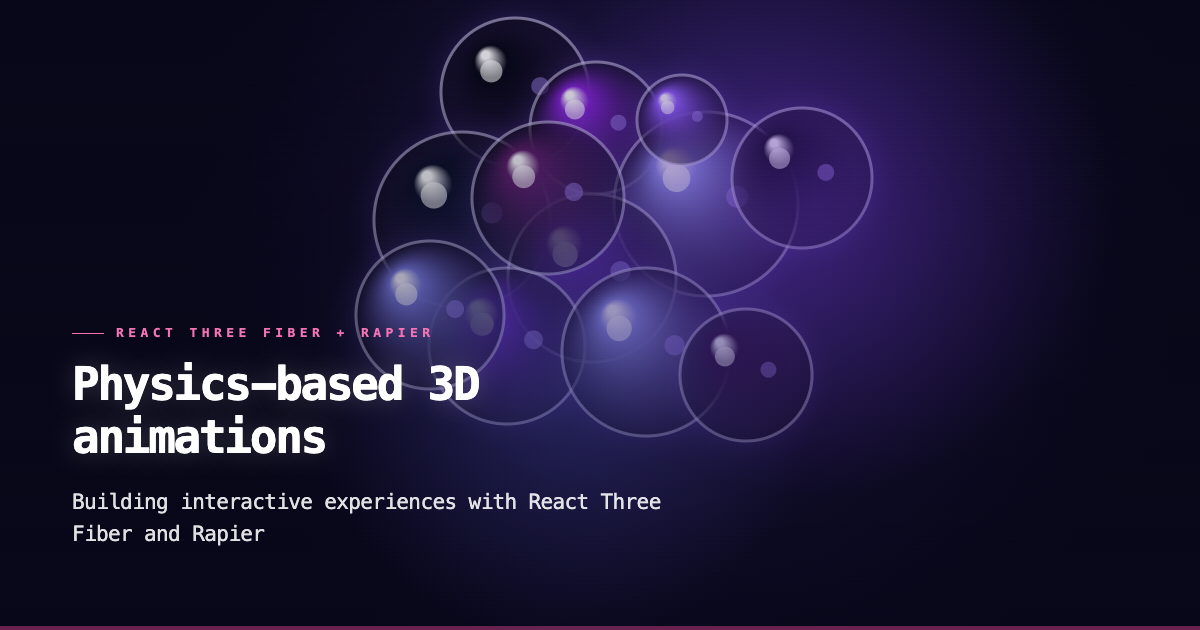
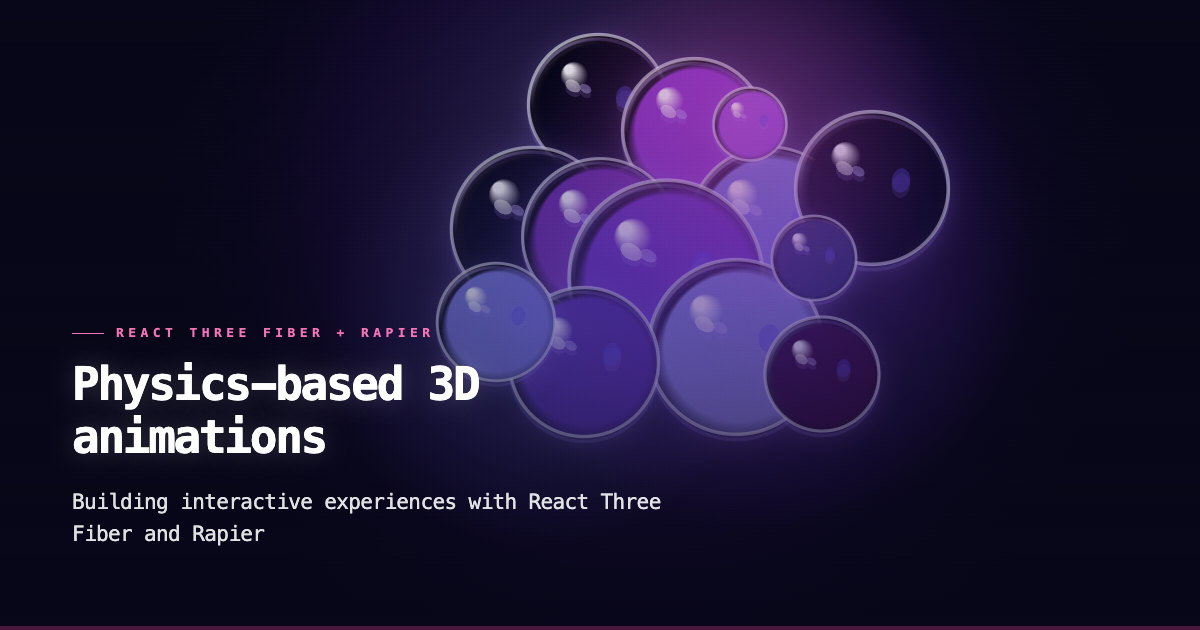
feat(examples): improve physics og demo

diff --git a/src/worker-configuration.d.ts b/src/worker-configuration.d.ts
@@ -1,21 +1,21 @@
 /* eslint-disable */
-// Generated by Wrangler by running `wrangler types --strict-vars=false src/worker-configuration.d.ts` (hash: d7e084548c703daa9e23286cf048b968)
+// Generated by Wrangler by running `wrangler types --env-file=.dev.vars.example --strict-vars=false src/worker-configuration.d.ts` (hash: b4319eba50305e06c2b2994766850a9a)
 // Runtime types generated with workerd@1.20260708.1 2026-07-09 global_fetch_strictly_public,nodejs_compat
 interface __BaseEnv_Env {
 	OG_CACHE: R2Bucket;
 	BROWSER: BrowserRun;
+	ALLOWED_HOSTS: string;
+	ALLOW_SUBDOMAINS: string;
 	ALLOWED_FORMATS: string;
 	BROWSER_POOL_MAX: string;
 	CACHE_TTL_SECONDS: string;
+	ENABLE_PREFLIGHT: string;
+	ENVIRONMENT: string;
 	MAX_HTML_BYTES: string;
 	MAX_NEW_URLS_PER_WINDOW: string;
 	MAX_RENDERS_PER_WINDOW: string;
 	PER_URL_COOLDOWN_SECONDS: string;
 	USAGE_WINDOW_SECONDS: string;
-	ALLOWED_HOSTS: string;
-	ALLOW_SUBDOMAINS: string;
-	ENABLE_PREFLIGHT: string;
-	ENVIRONMENT: string;
 	RENDER_GATE: DurableObjectNamespace<import("./worker/index").RenderGate>;
 }
 declare namespace Cloudflare {
@@ -30,7 +30,7 @@ type StringifyValues<EnvType extends Record<string, unknown>> = {
 	[Binding in keyof EnvType]: EnvType[Binding] extends string ? EnvType[Binding] : string;
 };
 declare namespace NodeJS {
-	interface ProcessEnv extends StringifyValues<Pick<Cloudflare.Env, "ALLOWED_FORMATS" | "BROWSER_POOL_MAX" | "CACHE_TTL_SECONDS" | "MAX_HTML_BYTES" | "MAX_NEW_URLS_PER_WINDOW" | "MAX_RENDERS_PER_WINDOW" | "PER_URL_COOLDOWN_SECONDS" | "USAGE_WINDOW_SECONDS" | "ALLOWED_HOSTS" | "ALLOW_SUBDOMAINS" | "ENABLE_PREFLIGHT" | "ENVIRONMENT">> {}
+	interface ProcessEnv extends StringifyValues<Pick<Cloudflare.Env, "ALLOWED_HOSTS" | "ALLOW_SUBDOMAINS" | "ALLOWED_FORMATS" | "BROWSER_POOL_MAX" | "CACHE_TTL_SECONDS" | "ENABLE_PREFLIGHT" | "ENVIRONMENT" | "MAX_HTML_BYTES" | "MAX_NEW_URLS_PER_WINDOW" | "MAX_RENDERS_PER_WINDOW" | "PER_URL_COOLDOWN_SECONDS" | "USAGE_WINDOW_SECONDS">> {}
 }
 
 // Begin runtime types

diff --git a/README.md b/README.md
@@ -60,9 +60,6 @@ Advanced demos:
   <img src="examples/images/physics-spheres.png" alt="Physics spheres OG image example" width="390">
 </p>
 
-For heavier scenes, keep the 3D dependencies in your site, not this Worker. The
-Worker only needs the final `<template>`.
-
 ```tsx
 <template data-og-template data-og-width="1200" data-og-height="630">
   <Canvas camera={{ position: [0, 0, 30], fov: 17.5 }}>